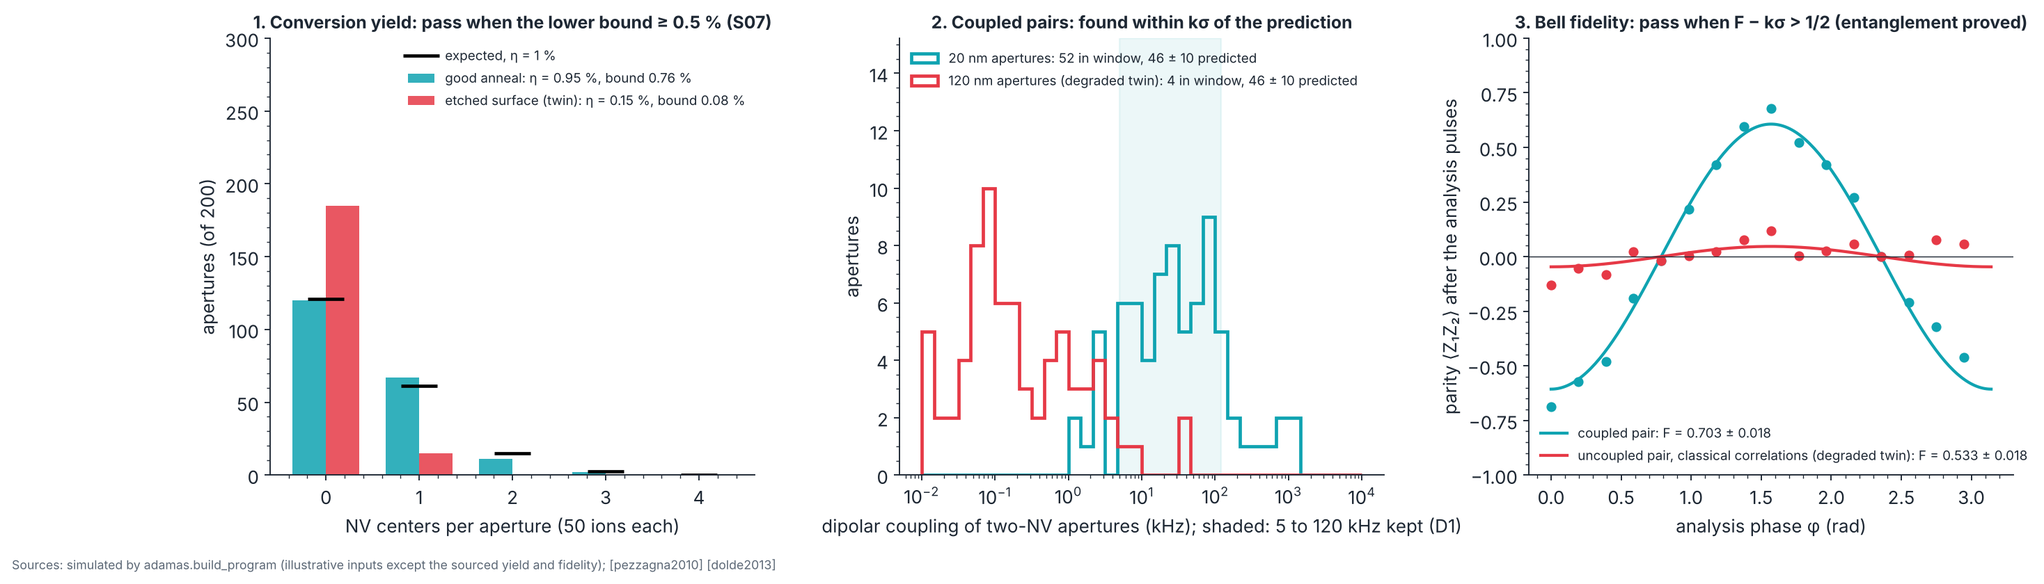
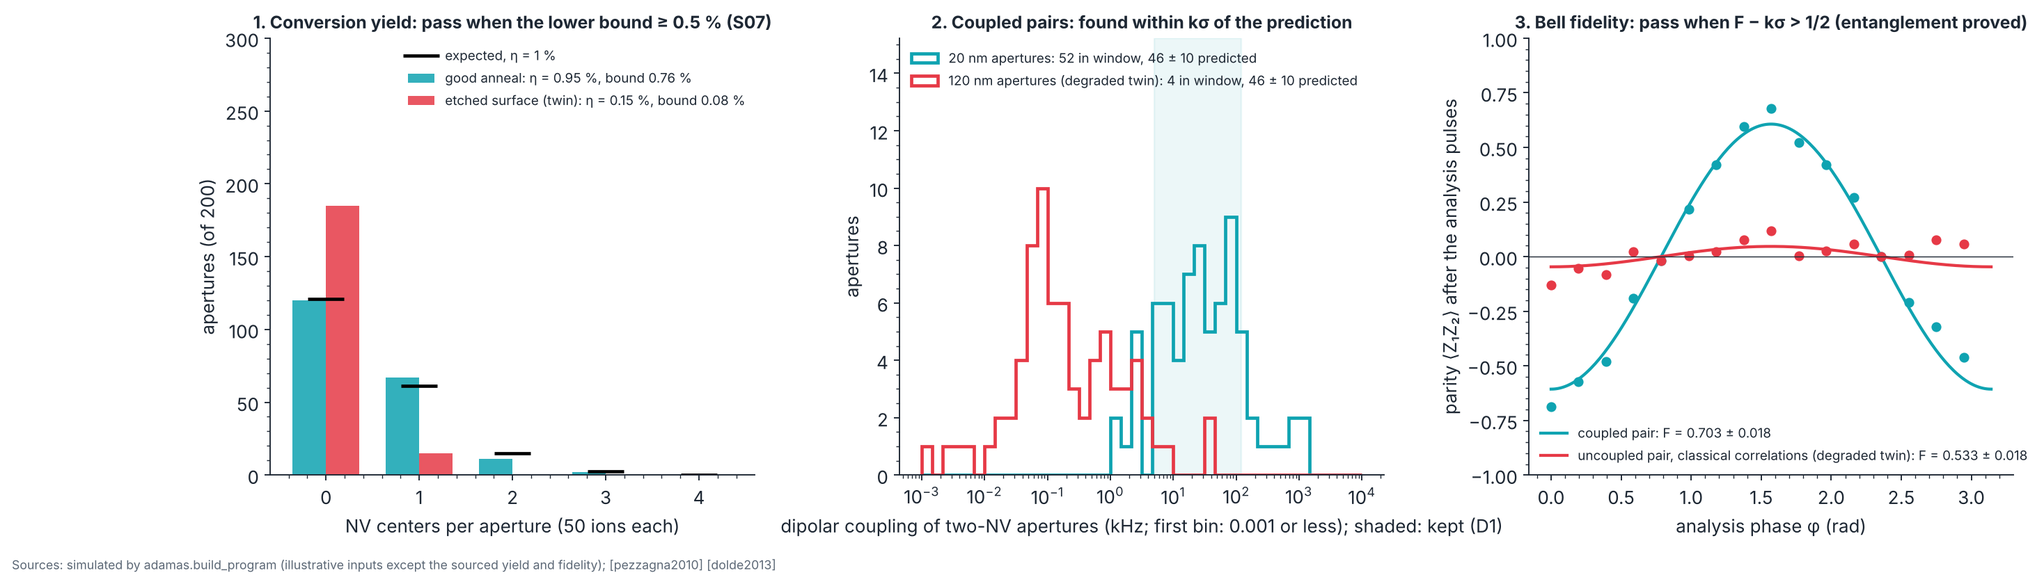
v0.36.0: review fixes (local fluence stated, limit labeled ADAMAS target, computed twin note, sources from text, acronyms, figure bins)
Claude-Session: https://claude.ai/code/session_01ThWvxuHhx2XJuEF7t2uw3V

Changed region(s): [[0.3719, 0.3405, 0.7439, 0.9286]]

diff --git a/web/build.html b/web/build.html
@@ -131,7 +131,7 @@ function detail() {
       ${row('Surface etched during the anneal', `${fx(100 * b.yield.eta, 2)} %, bound ${fx(100 * b.yield.eta_lower, 2)} %`, b.yield.pass, r.degraded.yield, true)}
       ${row(`Apertures ${b.pairs.aperture_nm} nm, over-developed`, `${b.pairs.found} found, ${fx(b.pairs.predicted, 1)} predicted`, b.pairs.pass, r.degraded.pairs, true)}
       ${row('Uncoupled "pair": classical correlations only', bell(b.bell), b.bell.pass, r.degraded.bell, true)}</table></div>
-      <p class="src">Parts US$${g.bill.low.toLocaleString('en-US')} to ${g.bill.high.toLocaleString('en-US')} (estimates; the annealing furnace and SIMS are not priced yet). Sourced: yield and its limit (traveler S07 [pezzagna2010]), fidelity put in (0.67 [dolde2013]); everything else illustrative. Rates over ${r.runs} simulated runs. The Bell twin sits exactly at 1/2, so it passes at about the one-sided rate the check allows.</p>`; }
+      <p class="src">Parts US$${g.bill.low.toLocaleString('en-US')} to ${g.bill.high.toLocaleString('en-US')} (estimates; the annealing furnace and SIMS are not priced yet). Sourced: yield put in (about 1 % [pezzagna2010]; the 0.5 % limit is an ADAMAS target, S07) and fidelity put in (0.67 [dolde2013]); everything else illustrative. Rates over ${r.runs} simulated runs. The Bell twin sits exactly at 1/2, so it passes at about the one-sided rate the check allows.</p>`; }
   else right = `<h3 style="margin-top:0">Outline ${V(null, 'not yet written')}</h3><p style="color:var(--mute)">This phase is written when its machines, prices, facility needs, and pass/fail criteria have sources. Why it waits: <a href="https://github.com/Normansrule/adamas-diamond-framework/blob/main/docs/STATUS.md">STATUS.md</a>.</p>`;
   const doc = D.docs[sel];
   $('detail').innerHTML = `<div><h2 style="margin:0 0 10px;font-size:26px">${p.id} · ${esc(p.name)}</h2><dl><dt>Goal</dt><dd>${esc(p.goal)}</dd><dt>Budget</dt><dd>${esc(p.budget)}</dd>

diff --git a/adamas/build_program.py b/adamas/build_program.py
@@ -855,10 +855,10 @@ P5_RUNS = 1000
 # the published room-temperature Bell fidelity 0.67 [dolde2013]; the 5 to 120 kHz coupling window of experiment D1.
 # Everything else is illustrative and labeled so.
 P5_ETA = 0.01                # nitrogen-to-NV conversion yield put in (S07: about 1 % at 2.5 to 5 keV [pezzagna2010])
-P5_ETA_MIN = 0.005           # S07 acceptance: yield at least 0.5 % [pezzagna2010]
+P5_ETA_MIN = 0.005           # S07 acceptance: yield at least 0.5 % (an ADAMAS target, set from the about 1 % reported in [pezzagna2010])
 P5_ETA_BAD = 0.002           # degraded twin: residual oxygen etched the surface during the anneal (S07 failure mode; illustrative value)
 P5_WITNESS_SITES = 200       # witness (calibration) array: apertures counted by confocal microscopy (illustrative)
-P5_WITNESS_IONS = 50         # ions per witness aperture (illustrative; S06 dose window)
+P5_WITNESS_IONS = 50         # ions per witness aperture (illustrative; local fluence about 1.6e13 cm^-2, see p5_local_fluence_cm2)
 P5_PAIR_SITES = 1000         # pair field: apertures searched for coupled pairs (illustrative)
 P5_PAIR_IONS = 50            # ions per pair aperture (illustrative)
 P5_ENERGY_KEV = 5.0          # implant energy, inside the S06 window of 2.5 to 10 keV
@@ -870,6 +870,12 @@ P5_POP_NOISE = 0.03          # error of the measured population sum p00 + p11 (i
 P5_PARITY_NOISE = 0.06       # per point of the parity oscillation, 16 analysis phases (illustrative)
 P5_PARITY_PHASES = 16
 NV_AXIS = np.array([1.0, 1.0, 1.0]) / math.sqrt(3)         # [111]; the implant comes in along [001]
+
+
+def p5_local_fluence_cm2(ions: int = P5_PAIR_IONS, aperture_nm: float = P5_APERTURE_NM) -> float:
+    """Ions per aperture area. 50 ions through 20 nm is about 1.6e13 cm^-2: above S06's 1e8 to 1e11 cm^-2 for single
+    centers and at its ensemble ceiling (1e13), so the about 1 % yield of [pezzagna2010] is extrapolated to this fluence."""
+    return ions / (math.pi * (aperture_nm * 1e-7 / 2) ** 2)
 
 
 def _k5() -> float:
@@ -1054,14 +1060,14 @@ def p5_figure(out: str | Path = "docs/img") -> Path:
     a.set_ylim(0, 1.5 * P5_WITNESS_SITES); a.legend(fontsize=8, loc="upper right", borderaxespad=0.3); a.set_xticks(kk)
     a.set_title(f"1. Conversion yield: pass when the lower bound ≥ {100 * P5_ETA_MIN:g} % (S07)", fontsize=10.5)
     a.set_xlabel(f"NV centers per aperture ({P5_WITNESS_IONS} ions each)"); a.set_ylabel(f"apertures (of {P5_WITNESS_SITES})")
-    a = ax[1]; bins = np.logspace(-2, 4, 37)
+    a = ax[1]; bins = np.logspace(-3, 4, 43)
     for r, col, lab in ((g["pairs"], COLORS["Diamond"], f"{P5_APERTURE_NM:g} nm apertures"), (b["pairs"], RED, f"{P5_APERTURE_BAD_NM:g} nm apertures (degraded twin)")):
-        a.hist(np.clip(r["couplings_khz"], 1e-2, 1e4), bins=bins, histtype="step", lw=2, color=col,
+        a.hist(np.clip(r["couplings_khz"], 1.01e-3, 1e4), bins=bins, histtype="step", lw=2, color=col,
                label=f"{lab}: {r['found']} in window, {r['predicted']:.0f} ± {r['predicted_err']:.0f} predicted")
     a.axvspan(*P5_WINDOW_KHZ, color=COLORS["Diamond"], alpha=.08); a.set_xscale("log")
     a.set_ylim(0, 1.45 * a.get_ylim()[1])
     a.legend(fontsize=8, loc="upper left"); a.set_title("2. Coupled pairs: found within kσ of the prediction", fontsize=10.5)
-    a.set_xlabel("dipolar coupling of two-NV apertures (kHz); shaded: 5 to 120 kHz kept (D1)"); a.set_ylabel("apertures")
+    a.set_xlabel("dipolar coupling of two-NV apertures (kHz; first bin: 0.001 or less); shaded: kept (D1)"); a.set_ylabel("apertures")
     a = ax[2]; phi = np.array(g["bell"]["phi"]); xx = np.linspace(0, np.pi, 200)
     for r, col, lab in ((g["bell"], COLORS["Diamond"], "coupled pair"), (b["bell"], RED, "uncoupled pair, classical correlations (degraded twin)")):
         a.plot(phi, r["parity"], "o", ms=5, color=col)
@@ -1080,9 +1086,12 @@ def _p5_rates_note(rates: dict) -> str:
         word = "more often than" if v > design + 3 * se else "less often than" if v < design - 3 * se else "about as often as"
         out.append(f"the {name} check passes correct runs {word} designed ({100 * v:.1f} %)")
     text = "Against the {:.2f} % design per check: ".format(100 * design) + "; ".join(out) + ". "
-    text += ("The yield and Bell checks sit far inside their limits (a 1 % yield against 0.5 %, a fidelity of 0.67 against 1/2), so they almost never fail a correct run, and the pair-search check sets the gate rate. "
-             "The Bell twin sits exactly on the limit (F = 1/2), so it passes at about the one-sided rate the check allows, "
-             f"{100 * (1 - design):.1f} %; that is the price of a test that never rejects real entanglement for noise. ")
+    text += (f"With these inputs the yield and Bell checks sit far from their limits ({100 * P5_ETA:g} % against {100 * P5_ETA_MIN:g} %, a fidelity of {P5_BELL_F} against 1/2), "
+             "so the pair-search check sets the gate rate. ")
+    alpha = 1 - design; tw = rates["degraded"]["bell"]; se_a = math.sqrt(alpha * design / rates["runs"])
+    text += (f"The Bell twin sits exactly on the limit (F = 1/2), so by construction it passes at the one-sided rate {100 * alpha:.1f} %; "
+             f"over these runs it passed {100 * tw:.1f} %, " + ("within three standard errors of that. " if abs(tw - alpha) <= 3 * se_a else "more than three standard errors away: check the noise model. ") +
+             "A real pair just above 1/2 would also fail often: the test proves entanglement only when the fidelity clears 1/2 by a few standard errors. ")
     text += (f"Over {rates['runs']} runs the gate passes {100 * rates['gate']:.1f} % of correct runs" +
              (", at least the 95 % it is designed for." if rates["gate"] >= P5_GATE_COVERAGE - 3 * rates["se_gate"] else ", below the 95 % it is designed for: the tolerances need widening."))
     return text
@@ -1104,20 +1113,20 @@ def _p5_md() -> str:
     rows = "\n".join(f"| {parts.get(r[1], '(not in the Atlas)')} | {r[1]} (D1) | {r[2]} | {r[3]:,} to {r[4]:,} |" for r in bill["rows"])
     use = {"M22": "vacancy anneal (S07)", "M23": "implant depth profile (S06)"}
     rows += "\n" + "\n".join(f"| {k} | {atlas.tool(k)} | {use[k]} | not priced (no source yet) |" for k in bill["unpriced"])
-    machines = ", ".join(f"{k} {atlas.tool(k)}" for k in P5_MACHINES)
+    machines = ", ".join(f"{k} {atlas.tool(k)}" for k in P5_MACHINES).replace("CVD diamond", "chemical vapor deposition (CVD) diamond")
     steps = "\n".join(f"{i + 1}. **{s[0]}.** {s[1]}" for i, s in enumerate(by["D1"]["steps"]))
     hazards = " ".join(dict.fromkeys([h for sid in ("S02", "S06", "S07", "S18") for h in st[sid]["safety"] if not h.startswith("As ")] + by["D1"]["safety"]))
     pair_txt = f"{be['pair_khz']:.1f} kHz, gate time 1/(2ν) = {be['gate_us']:.1f} µs" if be["pair_khz"] else "none found"
     verdict = ("All simulated checks pass and every degraded twin fails, so the analysis can tell a good run from a faulty one; the gate is decided by the numbers measured on your sample."
                if g["verdict"] == "go" and not (by_["pass"] or bp["pass"] or bb["pass"])
                else "On this run a simulated check fails or a degraded twin passes; a correct run fails about one time in twenty, so repeat it before changing the analysis.")
-    return f"""# P5 · Placement: implanted NV pairs, coupled and entangled
+    text = f"""# P5 · Placement: implanted NV pairs, coupled and entangled
 
 {GEN}
 
 **Status: written in full.** Budget: **US${bill['low']:,} to {bill['high']:,}** for the D1 parts listed below (estimates from the experiment list, not quotes). The annealing furnace and secondary-ion mass spectrometry (SIMS) are not priced yet ([STATUS.md](../STATUS.md)); most groups rent them in a shared facility. Gate verdict in simulation: **{g['verdict']}**.
 
-Sourced inputs: the conversion yield put in ({100 * P5_ETA:g} %) and its acceptance limit ({100 * P5_ETA_MIN:g} %) come from traveler step S07 [pezzagna2010]; the Bell-state fidelity put in ({P5_BELL_F}) is the published room-temperature value for an NV pair [dolde2013]; the 5 to 120 kHz coupling window is experiment D1's. Every other input (aperture counts, ions per aperture, noise levels) is **illustrative**. The phase is **simulated**: no ADAMAS hardware has run it.
+Sourced inputs: the conversion yield put in ({100 * P5_ETA:g} %) come from [pezzagna2010], and its acceptance limit ({100 * P5_ETA_MIN:g} %, traveler step S07) is an ADAMAS target set from it; the Bell-state fidelity put in ({P5_BELL_F}) is the published room-temperature value for an NV pair [dolde2013]; the 5 to 120 kHz coupling window is experiment D1's. Every other input (aperture counts, ions per aperture, noise levels) is **illustrative**. The phase is **simulated**: no ADAMAS hardware has run it.
 
 ## Goal
 
@@ -1125,9 +1134,9 @@ Place nitrogen-vacancy (NV) centers with nanometre control: implant ¹⁵N throu
 
 ## Physics and equations
 
-- **Conversion yield η:** each implanted nitrogen becomes an NV with probability η, so an aperture with n ions holds k NVs with the binomial probability C(n,k) η^k (1 − η)^(n−k). Counting NVs on a witness array of M apertures gives η̂ = (NVs counted)/(M n); its one-sided Clopper–Pearson lower bound at the per-check coverage is compared with the S07 limit. About 1 % is reported at 2.5 to 5 keV, rising with energy [pezzagna2010]. Valid when every NV in an aperture is counted (confocal counting, with antibunching from P3 to tell one, two and three apart) and implanted ¹⁵N is told from native ¹⁴N by its hyperfine lines.
-- **Where the ions stop:** at {P5_ENERGY_KEV:g} keV the rule of thumb of `adamas.coupling` gives a depth of about {depth:.1f} nm with {strag:.1f} nm straggle, per axis [pezzagna2010] [oforiokai2012]; replace it with a SRIM run [ziegler2010] for design work (channeling makes real profiles deeper). Each ion enters at a uniformly random point of a {P5_APERTURE_NM:g} nm aperture.
-- **Coupling:** two NVs at separation r couple with ν = 52 MHz·nm³ |1 − 3cos²θ| / r³ [neumann2010natphys] [dolde2013], θ between the separation and the quantization axis (taken here as [111] for both; NVs on different axes, as experiment D1 selects for addressing, change the angular factor). A controlled-phase gate takes 1/(2ν). Pairs between 5 and 120 kHz are kept (experiment D1's window).
+- **Conversion yield η:** each implanted nitrogen becomes an NV with probability η, so an aperture with n ions holds k NVs with the binomial probability C(n,k) η^k (1 − η)^(n−k). Counting NVs on a witness array of M apertures gives η̂ = (NVs counted)/(M n); its one-sided Clopper–Pearson lower bound at the per-check coverage is compared with the S07 limit. About 1 % is reported at 2.5 to 5 keV, rising with energy [pezzagna2010]. Valid when every NV in an aperture is counted (confocal counting: brightness steps calibrated on single NVs, with antibunching from P3 to confirm single centers; two versus three is the least certain count) and implanted ¹⁵N is told from native ¹⁴N by its hyperfine lines.
+- **Where the ions stop:** at {P5_ENERGY_KEV:g} keV the rule of thumb of `adamas.coupling` gives a depth of about {depth:.1f} nm with {strag:.1f} nm straggle, per axis [pezzagna2010] [oforiokai2012]; replace it with a run of SRIM (the Stopping and Range of Ions in Matter code) [ziegler2010] for design work (channeling makes real profiles deeper). Each ion enters at a uniformly random point of a {P5_APERTURE_NM:g} nm aperture. {P5_PAIR_IONS} ions per aperture is a local fluence of about {p5_local_fluence_cm2():.1e} cm⁻², above S06's range for single centers and at its ensemble ceiling, so the {100 * P5_ETA:g} % yield is extrapolated to this fluence (an assumption to check on the witness array).
+- **Coupling:** two NVs at separation r couple with ν = 52 MHz·nm³ |1 − 3cos²θ| / r³ [neumann2010natphys] [dolde2013], θ between the separation and the quantization axis (taken here as [111] for both; NVs on different axes, as experiment D1 selects for addressing, change the angular factor). A controlled-phase gate takes 1/(2ν). Each candidate's coupling is measured by double electron–electron resonance (DEER), and pairs between 5 and 120 kHz are kept (experiment D1's window).
 - **Pair count:** an aperture with n ions holds exactly two NVs with P₂ = C(n,2) η² (1 − η)^(n−2), and a fraction f of such pairs falls in the window (Monte Carlo over the geometry above; f = {p['window_fraction']:.3f} for the design). The expected number of usable pairs in M apertures is N = M P₂ f, computed with the yield **measured** on the witness array of the same run; its error combines binomial counting and the yield's error, so the yield and pair checks are correlated.
 - **Bell fidelity:** after the gate, measure the populations p00 + p11 and the parity ⟨Z₁Z₂⟩ after a π/2 analysis pulse of phase φ on each NV. Its cos 2φ part is −A cos 2φ with A = 2 Re ρ(00,11), so F = (p00 + p11 + A)/2 is the exact fidelity with the Bell state |Φ⁺⟩ for any two-qubit state (a test checks it on random states). A fidelity above 1/2 proves entanglement: no unentangled (separable) state reaches more than 1/2 with a Bell state, which a test checks numerically. The simulated state is a Bell pair mixed with white noise (a Werner state, as in `adamas.entangle`); real errors are not white, but the estimator does not depend on that.
 
@@ -1159,11 +1168,11 @@ Each test is shown with its **degraded twin**: the same simulation with one faul
 
 ## Pass/fail
 
-The gate needs all {P5_CHECKS} checks to pass, so each is set for {100 * P5_TEST_COVERAGE:.2f} % coverage: k = {rates['k_one']:.2f} for the one-sided yield and Bell checks and {rates['k']:.2f} for the two-sided pair count. Rates are over {rates['runs']} simulated runs (binomial standard error at the design rate: {100 * rates['se_test']:.1f} percentage points per check, {100 * rates['se_gate']:.1f} for the gate).
+The gate needs all {P5_CHECKS} checks to pass, so each is set for {100 * P5_TEST_COVERAGE:.2f} % coverage: the yield check uses the exact Clopper–Pearson quantile, the Bell check k = {rates['k_one']:.2f} (one-sided) and the pair count k = {rates['k']:.2f} (two-sided). Rates are over {rates['runs']} simulated runs (binomial standard error at the design rate: {100 * rates['se_test']:.1f} percentage points per check, {100 * rates['se_gate']:.1f} for the gate).
 
 | Check | Criterion | Put in | Measured | Pass? | Correct runs passing |
 |---|---|---|---|---|---|
-| Conversion yield (witness array) | lower bound ≥ {100 * P5_ETA_MIN:g} % (S07 [pezzagna2010]) | η = {100 * y['eta_put_in']:g} % | {y['nv']} NVs from {y['ions']:,} ions: {100 * y['eta']:.2f} ± {100 * y['eta_err']:.2f} %, bound {100 * y['eta_lower']:.2f} % | {yes(y['pass'])} | {pct(rates['yield'])} |
+| Conversion yield (witness array) | lower bound ≥ {100 * P5_ETA_MIN:g} % (S07, ADAMAS target) | η = {100 * y['eta_put_in']:g} % | {y['nv']} NVs from {y['ions']:,} ions: {100 * y['eta']:.2f} ± {100 * y['eta_err']:.2f} %, bound {100 * y['eta_lower']:.2f} % | {yes(y['pass'])} | {pct(rates['yield'])} |
 | Coupled pairs (pair field) | at least 1 found, and within kσ of the prediction | design aperture {P5_APERTURE_NM:g} nm | {p['two_nv_sites']} two-NV apertures, {p['found']} in the window; predicted {p['predicted']:.1f} ± {p['predicted_err']:.1f} | {yes(p['pass'])} | {pct(rates['pairs'])} |
 | Bell fidelity (strongest pair: {pair_txt}) | F − kσ > 1/2 | F = {be['f_put_in']} [dolde2013] | {'not measured' if be['f'] is None else f"{be['f']:.3f} ± {be['f_err']:.3f}"} | {yes(be['pass'])} | {pct(rates['bell'])} |
 | **Gate: every row passes** | | | | **{yes(g['verdict'] == 'go')}** | **{pct(rates['gate'])}** |
@@ -1173,7 +1182,7 @@ The degraded twins, one fault each. The last column is how often the faulty run 
 | Test | Fault | Measured | Pass? | Faulty runs passing |
 |---|---|---|---|---|
 | Conversion yield | residual oxygen etched the surface during the anneal (S07 failure mode; η = {100 * P5_ETA_BAD:g} %, illustrative) | {100 * by_['eta']:.2f} %, bound {100 * by_['eta_lower']:.2f} % | {yes(by_['pass'])} | {pct(rates['degraded']['yield'])} |
-| Coupled pairs | PMMA over-developed: apertures {P5_APERTURE_BAD_NM:g} nm, outside the S06 window of 10 to 60 nm | {bp['found']} in the window, {bp['predicted']:.1f} ± {bp['predicted_err']:.1f} predicted | {yes(bp['pass'])} | {pct(rates['degraded']['pairs'])} |
+| Coupled pairs | the poly(methyl methacrylate) (PMMA) resist over-developed: apertures {P5_APERTURE_BAD_NM:g} nm, outside the S06 window of 10 to 60 nm | {bp['found']} in the window, {bp['predicted']:.1f} ± {bp['predicted_err']:.1f} predicted | {yes(bp['pass'])} | {pct(rates['degraded']['pairs'])} |
 | Bell fidelity | the "pair" is not coupled: at best classical correlations, F = 1/2 | {bb['f']:.3f} ± {bb['f_err']:.3f} | {yes(bb['pass'])} | {pct(rates['degraded']['bell'])} |
 
 {_p5_rates_note(rates)}
@@ -1196,10 +1205,13 @@ The simulation puts in the published fidelity rather than computing it. The cohe
 
 ## Decision gate
 
-*Is placement yield good enough to plan arrays?* {verdict} An array of N cells needs N usable pairs; with the measured yield and window fraction, about 1/(P₂ f) = {1 / (_p_two(y['eta']) * p['window_fraction']):.0f} apertures are searched per usable pair at this dose. That number, not the gate verdict alone, decides whether P6 plans arrays of aperture-implanted pairs or waits for deterministic placement.
+*Is placement yield good enough to plan arrays?* {verdict} An array of N cells needs N usable pairs; with the measured yield and window fraction, about 1/(P₂ f) = {1 / (_p_two(y['eta']) * p['window_fraction']):.0f} apertures are searched per usable pair at this dose. That is optimistic: D1 also needs the two NVs on different axes so each can be driven alone, which for random orientations keeps 3 of 4 pairs (about {4 / 3 / (_p_two(y['eta']) * p['window_fraction']):.0f} apertures per pair), and the [111]-only angular factor is an approximation. That number, not the gate verdict alone, decides whether P6 plans arrays of aperture-implanted pairs or waits for deterministic placement.
 
-Sources: [pezzagna2010] [oforiokai2012] [ziegler2010] [neumann2010natphys] [dolde2013] [dolde2014]
+Sources: SOURCES_LINE
 """
+    import re
+    keys = list(dict.fromkeys(re.findall(r"\[([a-z][a-z0-9]*\d{4}[a-z0-9]*)\]", text)))
+    return text.replace("SOURCES_LINE", " ".join(f"[{k}]" for k in keys))
 
 
 # ---------------------------------------------------------------- documents ----------------------------------------

diff --git a/tests/test_build_program.py b/tests/test_build_program.py
@@ -112,6 +112,7 @@ def test_p4_pass_rates_meet_the_design():
 def test_p5_gate_passes_and_every_degraded_twin_fails():
     g, b = B.p5_gate(), B.p5_degraded()
     assert g["verdict"] == "go"
+    # the Bell twin sits at F = 1/2, so about 2 % of seeds would pass it; the default seed is one that fails (rates: test below)
     assert not (b["yield"]["pass"] or b["pairs"]["pass"] or b["bell"]["pass"])
     assert b["pairs"]["found"] < b["pairs"]["predicted"]              # wide apertures: pairs too far apart to couple
 
@@ -131,7 +132,7 @@ def test_p5_parity_estimator_is_the_exact_bell_fidelity():
     assert pop == pytest.approx(float((E.werner(v)[0, 0] + E.werner(v)[3, 3]).real), rel=1e-12)
 
 
-def test_no_separable_state_beats_one_half():
+def test_p5_no_separable_state_beats_one_half():
     """The Bell check's threshold: product states (and so their mixtures) never exceed fidelity 1/2 with |Phi+>."""
     import numpy as np
     from adamas import entangle as E
@@ -151,3 +152,8 @@ def test_p5_pass_rates_meet_the_design():
     r = B.p5_pass_rates(300)
     assert r["gate"] >= 0.95 - 3 * (0.95 * 0.05 / 300) ** 0.5, r
     assert all(v <= 0.05 for v in r["degraded"].values()), r
+
+
+def test_p5_local_fluence_is_stated():
+    assert B.p5_local_fluence_cm2() == pytest.approx(50 / (3.141592653589793 * (10e-7) ** 2), rel=1e-12)
+    assert "cm⁻²" in B._p5_md() and "[dolde2014]" not in B._p5_md()

diff --git a/docs/build/P5_placement.md b/docs/build/P5_placement.md
@@ -4,7 +4,7 @@ _Generated from `adamas/build_program.py` (`adamas build docs`); every number be
 
 **Status: written in full.** Budget: **US$370,000 to 1,600,000** for the D1 parts listed below (estimates from the experiment list, not quotes). The annealing furnace and secondary-ion mass spectrometry (SIMS) are not priced yet ([STATUS.md](../STATUS.md)); most groups rent them in a shared facility. Gate verdict in simulation: **go**.
 
-Sourced inputs: the conversion yield put in (1 %) and its acceptance limit (0.5 %) come from traveler step S07 [pezzagna2010]; the Bell-state fidelity put in (0.67) is the published room-temperature value for an NV pair [dolde2013]; the 5 to 120 kHz coupling window is experiment D1's. Every other input (aperture counts, ions per aperture, noise levels) is **illustrative**. The phase is **simulated**: no ADAMAS hardware has run it.
+Sourced inputs: the conversion yield put in (1 %) come from [pezzagna2010], and its acceptance limit (0.5 %, traveler step S07) is an ADAMAS target set from it; the Bell-state fidelity put in (0.67) is the published room-temperature value for an NV pair [dolde2013]; the 5 to 120 kHz coupling window is experiment D1's. Every other input (aperture counts, ions per aperture, noise levels) is **illustrative**. The phase is **simulated**: no ADAMAS hardware has run it.
 
 ## Goal
 
@@ -12,15 +12,15 @@ Place nitrogen-vacancy (NV) centers with nanometre control: implant ¹⁵N throu
 
 ## Physics and equations
 
-- **Conversion yield η:** each implanted nitrogen becomes an NV with probability η, so an aperture with n ions holds k NVs with the binomial probability C(n,k) η^k (1 − η)^(n−k). Counting NVs on a witness array of M apertures gives η̂ = (NVs counted)/(M n); its one-sided Clopper–Pearson lower bound at the per-check coverage is compared with the S07 limit. About 1 % is reported at 2.5 to 5 keV, rising with energy [pezzagna2010]. Valid when every NV in an aperture is counted (confocal counting, with antibunching from P3 to tell one, two and three apart) and implanted ¹⁵N is told from native ¹⁴N by its hyperfine lines.
-- **Where the ions stop:** at 5 keV the rule of thumb of `adamas.coupling` gives a depth of about 7.5 nm with 3.0 nm straggle, per axis [pezzagna2010] [oforiokai2012]; replace it with a SRIM run [ziegler2010] for design work (channeling makes real profiles deeper). Each ion enters at a uniformly random point of a 20 nm aperture.
-- **Coupling:** two NVs at separation r couple with ν = 52 MHz·nm³ |1 − 3cos²θ| / r³ [neumann2010natphys] [dolde2013], θ between the separation and the quantization axis (taken here as [111] for both; NVs on different axes, as experiment D1 selects for addressing, change the angular factor). A controlled-phase gate takes 1/(2ν). Pairs between 5 and 120 kHz are kept (experiment D1's window).
+- **Conversion yield η:** each implanted nitrogen becomes an NV with probability η, so an aperture with n ions holds k NVs with the binomial probability C(n,k) η^k (1 − η)^(n−k). Counting NVs on a witness array of M apertures gives η̂ = (NVs counted)/(M n); its one-sided Clopper–Pearson lower bound at the per-check coverage is compared with the S07 limit. About 1 % is reported at 2.5 to 5 keV, rising with energy [pezzagna2010]. Valid when every NV in an aperture is counted (confocal counting: brightness steps calibrated on single NVs, with antibunching from P3 to confirm single centers; two versus three is the least certain count) and implanted ¹⁵N is told from native ¹⁴N by its hyperfine lines.
+- **Where the ions stop:** at 5 keV the rule of thumb of `adamas.coupling` gives a depth of about 7.5 nm with 3.0 nm straggle, per axis [pezzagna2010] [oforiokai2012]; replace it with a run of SRIM (the Stopping and Range of Ions in Matter code) [ziegler2010] for design work (channeling makes real profiles deeper). Each ion enters at a uniformly random point of a 20 nm aperture. 50 ions per aperture is a local fluence of about 1.6e+13 cm⁻², above S06's range for single centers and at its ensemble ceiling, so the 1 % yield is extrapolated to this fluence (an assumption to check on the witness array).
+- **Coupling:** two NVs at separation r couple with ν = 52 MHz·nm³ |1 − 3cos²θ| / r³ [neumann2010natphys] [dolde2013], θ between the separation and the quantization axis (taken here as [111] for both; NVs on different axes, as experiment D1 selects for addressing, change the angular factor). A controlled-phase gate takes 1/(2ν). Each candidate's coupling is measured by double electron–electron resonance (DEER), and pairs between 5 and 120 kHz are kept (experiment D1's window).
 - **Pair count:** an aperture with n ions holds exactly two NVs with P₂ = C(n,2) η² (1 − η)^(n−2), and a fraction f of such pairs falls in the window (Monte Carlo over the geometry above; f = 0.663 for the design). The expected number of usable pairs in M apertures is N = M P₂ f, computed with the yield **measured** on the witness array of the same run; its error combines binomial counting and the yield's error, so the yield and pair checks are correlated.
 - **Bell fidelity:** after the gate, measure the populations p00 + p11 and the parity ⟨Z₁Z₂⟩ after a π/2 analysis pulse of phase φ on each NV. Its cos 2φ part is −A cos 2φ with A = 2 Re ρ(00,11), so F = (p00 + p11 + A)/2 is the exact fidelity with the Bell state |Φ⁺⟩ for any two-qubit state (a test checks it on random states). A fidelity above 1/2 proves entanglement: no unentangled (separable) state reaches more than 1/2 with a Bell state, which a test checks numerically. The simulated state is a Bell pair mixed with white noise (a Werner state, as in `adamas.entangle`); real errors are not white, but the estimator does not depend on that.
 
 ## Machines and consumables
 
-Atlas machines for this phase: M08 Photoluminescence (PL) and NV-density mapping, M10 Wet bench: tri-acid and piranha cleans, HF, M12 Electron-beam lithography, M20 Low-energy ion implanter (¹⁵N), M21 Aperture masks (PMMA, AFM-tip) or focused ion beam, M22 High-vacuum annealing furnace (800–1200 °C), M23 Secondary-ion mass spectrometry (SIMS), M24 Atomic force microscopy (AFM), M47 High numerical-aperture objective, M51 Arbitrary waveform generator (AWG), M52 Electronic-grade, low-nitrogen, optionally ¹²C-enriched CVD diamond, M54 Two-color excitation for charge-state readout (orange or red laser). Optional: M25 (laser writing of vacancies) to raise the yield, and M08 for photoluminescence maps of the witness array.
+Atlas machines for this phase: M08 Photoluminescence (PL) and NV-density mapping, M10 Wet bench: tri-acid and piranha cleans, HF, M12 Electron-beam lithography, M20 Low-energy ion implanter (¹⁵N), M21 Aperture masks (PMMA, AFM-tip) or focused ion beam, M22 High-vacuum annealing furnace (800–1200 °C), M23 Secondary-ion mass spectrometry (SIMS), M24 Atomic force microscopy (AFM), M47 High numerical-aperture objective, M51 Arbitrary waveform generator (AWG), M52 Electronic-grade, low-nitrogen, optionally ¹²C-enriched chemical vapor deposition (CVD) diamond, M54 Two-color excitation for charge-state readout (orange or red laser). Optional: M25 (laser writing of vacancies) to raise the yield, and M08 for photoluminescence maps of the witness array.
 
 | Atlas | Part (experiment) | Specification | US$ |
 |---|---|---|---|
@@ -55,11 +55,11 @@ Each test is shown with its **degraded twin**: the same simulation with one faul
 
 ## Pass/fail
 
-The gate needs all 3 checks to pass, so each is set for 98.30 % coverage: k = 2.12 for the one-sided yield and Bell checks and 2.39 for the two-sided pair count. Rates are over 1000 simulated runs (binomial standard error at the design rate: 0.4 percentage points per check, 0.7 for the gate).
+The gate needs all 3 checks to pass, so each is set for 98.30 % coverage: the yield check uses the exact Clopper–Pearson quantile, the Bell check k = 2.12 (one-sided) and the pair count k = 2.39 (two-sided). Rates are over 1000 simulated runs (binomial standard error at the design rate: 0.4 percentage points per check, 0.7 for the gate).
 
 | Check | Criterion | Put in | Measured | Pass? | Correct runs passing |
 |---|---|---|---|---|---|
-| Conversion yield (witness array) | lower bound ≥ 0.5 % (S07 [pezzagna2010]) | η = 1 % | 95 NVs from 10,000 ions: 0.95 ± 0.10 %, bound 0.76 % | yes | 100.0 % |
+| Conversion yield (witness array) | lower bound ≥ 0.5 % (S07, ADAMAS target) | η = 1 % | 95 NVs from 10,000 ions: 0.95 ± 0.10 %, bound 0.76 % | yes | 100.0 % |
 | Coupled pairs (pair field) | at least 1 found, and within kσ of the prediction | design aperture 20 nm | 73 two-NV apertures, 52 in the window; predicted 46.3 ± 9.9 | yes | 97.9 % |
 | Bell fidelity (strongest pair: 117.8 kHz, gate time 1/(2ν) = 4.2 µs) | F − kσ > 1/2 | F = 0.67 [dolde2013] | 0.703 ± 0.018 | yes | 100.0 % |
 | **Gate: every row passes** | | | | **yes** | **97.9 %** |
@@ -69,10 +69,10 @@ The degraded twins, one fault each. The last column is how often the faulty run 
 | Test | Fault | Measured | Pass? | Faulty runs passing |
 |---|---|---|---|---|
 | Conversion yield | residual oxygen etched the surface during the anneal (S07 failure mode; η = 0.2 %, illustrative) | 0.15 %, bound 0.08 % | no | 0.0 % |
-| Coupled pairs | PMMA over-developed: apertures 120 nm, outside the S06 window of 10 to 60 nm | 4 in the window, 46.3 ± 9.9 predicted | no | 0.0 % |
+| Coupled pairs | the poly(methyl methacrylate) (PMMA) resist over-developed: apertures 120 nm, outside the S06 window of 10 to 60 nm | 4 in the window, 46.3 ± 9.9 predicted | no | 0.0 % |
 | Bell fidelity | the "pair" is not coupled: at best classical correlations, F = 1/2 | 0.533 ± 0.018 | no | 2.5 % |
 
-Against the 98.30 % design per check: the yield check passes correct runs more often than designed (100.0 %); the pair-search check passes correct runs about as often as designed (97.9 %); the Bell check passes correct runs more often than designed (100.0 %). The yield and Bell checks sit far inside their limits (a 1 % yield against 0.5 %, a fidelity of 0.67 against 1/2), so they almost never fail a correct run, and the pair-search check sets the gate rate. The Bell twin sits exactly on the limit (F = 1/2), so it passes at about the one-sided rate the check allows, 1.7 %; that is the price of a test that never rejects real entanglement for noise. Over 1000 runs the gate passes 97.9 % of correct runs, at least the 95 % it is designed for.
+Against the 98.30 % design per check: the yield check passes correct runs more often than designed (100.0 %); the pair-search check passes correct runs about as often as designed (97.9 %); the Bell check passes correct runs more often than designed (100.0 %). With these inputs the yield and Bell checks sit far from their limits (1 % against 0.5 %, a fidelity of 0.67 against 1/2), so the pair-search check sets the gate rate. The Bell twin sits exactly on the limit (F = 1/2), so by construction it passes at the one-sided rate 1.7 %; over these runs it passed 2.5 %, within three standard errors of that. A real pair just above 1/2 would also fail often: the test proves entanglement only when the fidelity clears 1/2 by a few standard errors. Over 1000 runs the gate passes 97.9 % of correct runs, at least the 95 % it is designed for.
 
 The simulation puts in the published fidelity rather than computing it. The coherence-limited budget of `adamas.gate_budget` gives 0.78 to 1.00 for the published pair, above the measured 0.67: a known discrepancy carried here from P0 ([VALIDATION.md](../VALIDATION.md)). P5 is where it gets measured: compare your fidelity with the budget for your pair's coupling and coherence times, and attribute the gap (D1, step 5).
 
@@ -92,6 +92,6 @@ The simulation puts in the published fidelity rather than computing it. The cohe
 
 ## Decision gate
 
-*Is placement yield good enough to plan arrays?* All simulated checks pass and every degraded twin fails, so the analysis can tell a good run from a faulty one; the gate is decided by the numbers measured on your sample. An array of N cells needs N usable pairs; with the measured yield and window fraction, about 1/(P₂ f) = 22 apertures are searched per usable pair at this dose. That number, not the gate verdict alone, decides whether P6 plans arrays of aperture-implanted pairs or waits for deterministic placement.
+*Is placement yield good enough to plan arrays?* All simulated checks pass and every degraded twin fails, so the analysis can tell a good run from a faulty one; the gate is decided by the numbers measured on your sample. An array of N cells needs N usable pairs; with the measured yield and window fraction, about 1/(P₂ f) = 22 apertures are searched per usable pair at this dose. That is optimistic: D1 also needs the two NVs on different axes so each can be driven alone, which for random orientations keeps 3 of 4 pairs (about 29 apertures per pair), and the [111]-only angular factor is an approximation. That number, not the gate verdict alone, decides whether P6 plans arrays of aperture-implanted pairs or waits for deterministic placement.
 
-Sources: [pezzagna2010] [oforiokai2012] [ziegler2010] [neumann2010natphys] [dolde2013] [dolde2014]
+Sources: [pezzagna2010] [dolde2013] [oforiokai2012] [ziegler2010] [neumann2010natphys] [joas2025]

diff --git a/docs/STATUS.md b/docs/STATUS.md
@@ -11,6 +11,7 @@ Last updated: v0.36.0 (2026-11-09).
 | Item | Why it waits | What would close it |
 |---|---|---|
 | Illustrative inputs | Aperture counts, ions per aperture, the 20 nm aperture, and the noise of the population and parity measurements are chosen to look like a typical run, not measured. The yield (1 %, limit 0.5 %) and the fidelity put in (0.67) are sourced | Values from a P5 run |
+| Yield at high local fluence | 50 ions through a 20 nm aperture is about 1.6×10¹³ cm⁻², above S06's single-center range; the about 1 % yield [pezzagna2010] is extrapolated to it | The witness-array yield at the chosen fluence |
 | Ion stopping | Depth and straggle use the rule of thumb of `adamas.coupling` (0.4 x depth), not a SRIM calculation | A SRIM run [ziegler2010] at the chosen energy, checked by SIMS |
 | Coupling geometry | Both NVs are taken as quantized along [111]; pairs on different axes have a different angular factor | The full secular dipolar tensor for two NV axes |
 | Coherence, charge state and addressing in the Bell check | The fidelity is put in as the published value; T₂ near the surface, charge-state preparation and same-axis pairs are not simulated | The `adamas.gate_budget` model driven by measured T₂, q and coupling |
